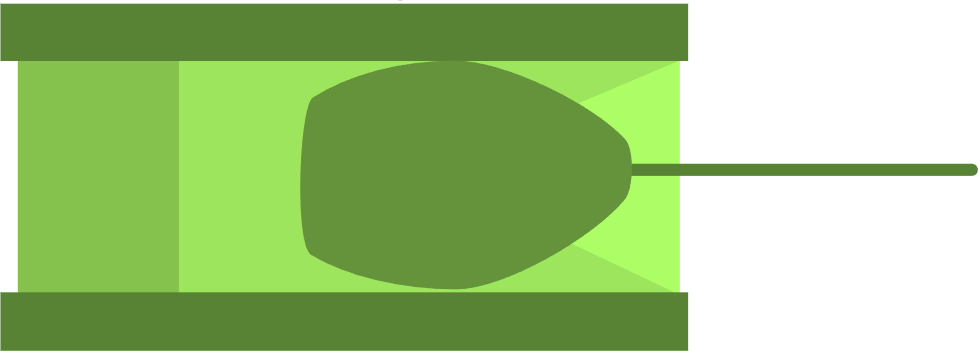
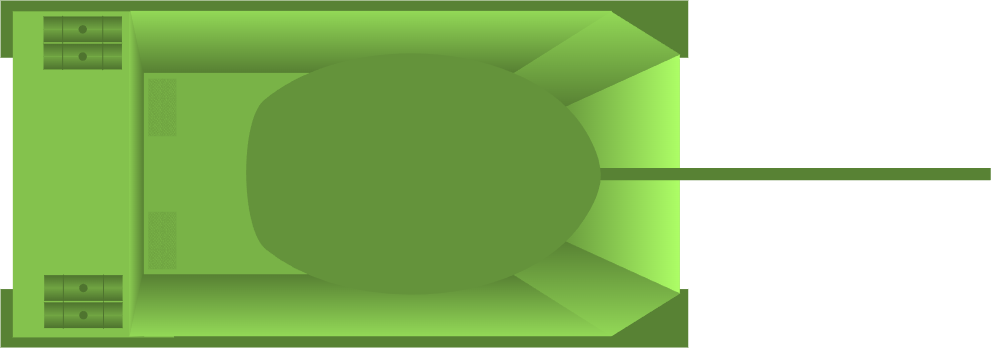
Update IS-4 tank assets

diff --git a/tankswars/README.md b/tankswars/README.md
@@ -2,7 +2,7 @@
 
 ## Текущая версия
 
-`1.1.1.0v8`
+`1.1.1.0v9`
 
 Правило версий: если базовая версия не меняется, следующая правка получает следующий суффикс: `1.1.0.3v2`, затем `1.1.0.3v3` и так далее.
 
@@ -37,6 +37,24 @@ http://localhost:8000/
 - `js/06-battle-logic.js` - логика боя, награды, выживание, статистика.
 - `js/07-battle-render.js` - отрисовка боя и HUD.
 - `js/08-startup.js` - старт игры, запуск/остановка боя, управление.
+
+## Изменения 1.1.1.0v9
+
+Изменено:
+
+- Обновлены изображения танка, корпуса и башни `ИС-4`.
+
+Проверено:
+
+- Все три обновлённых PNG-файла присутствуют в соответствующих каталогах ассетов.
+- `git diff --check` — ошибок форматирования не обнаружено.
+
+Файлы, изменённые в версии `1.1.1.0v9`:
+
+- `README.md`
+- `img/bashnya/ИС-4.png`
+- `img/korpus/ИС-4.png`
+- `img/tanki/ИС-4.png`
 
 ## Изменения 1.1.1.0v8
 
